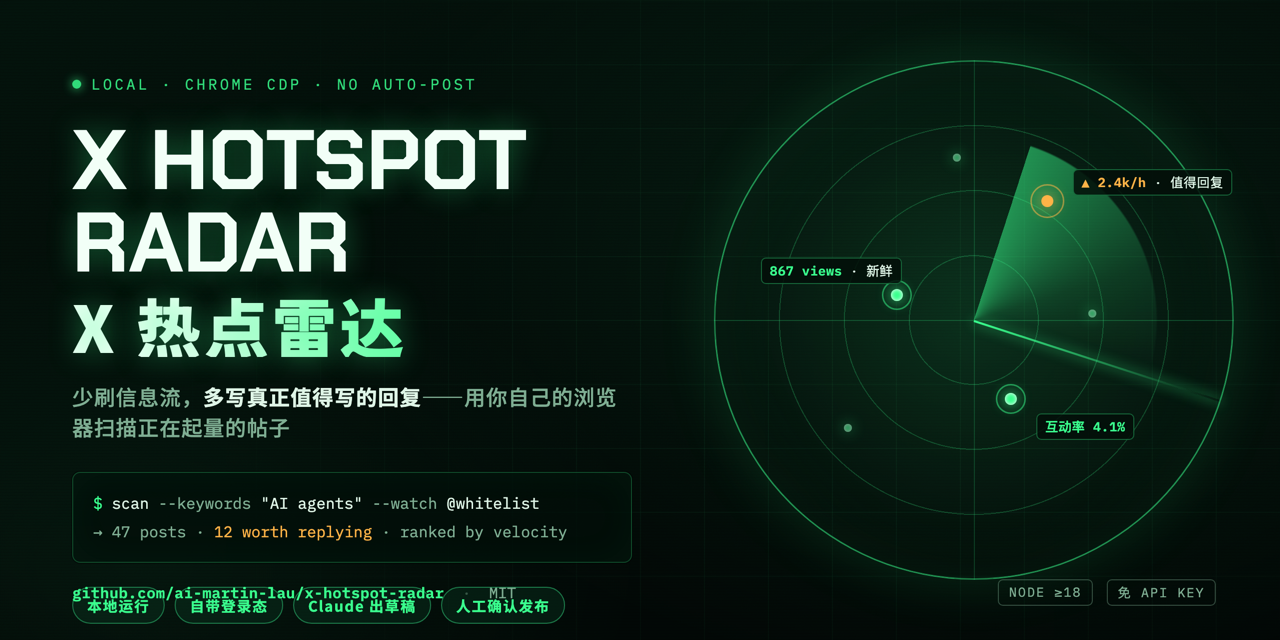
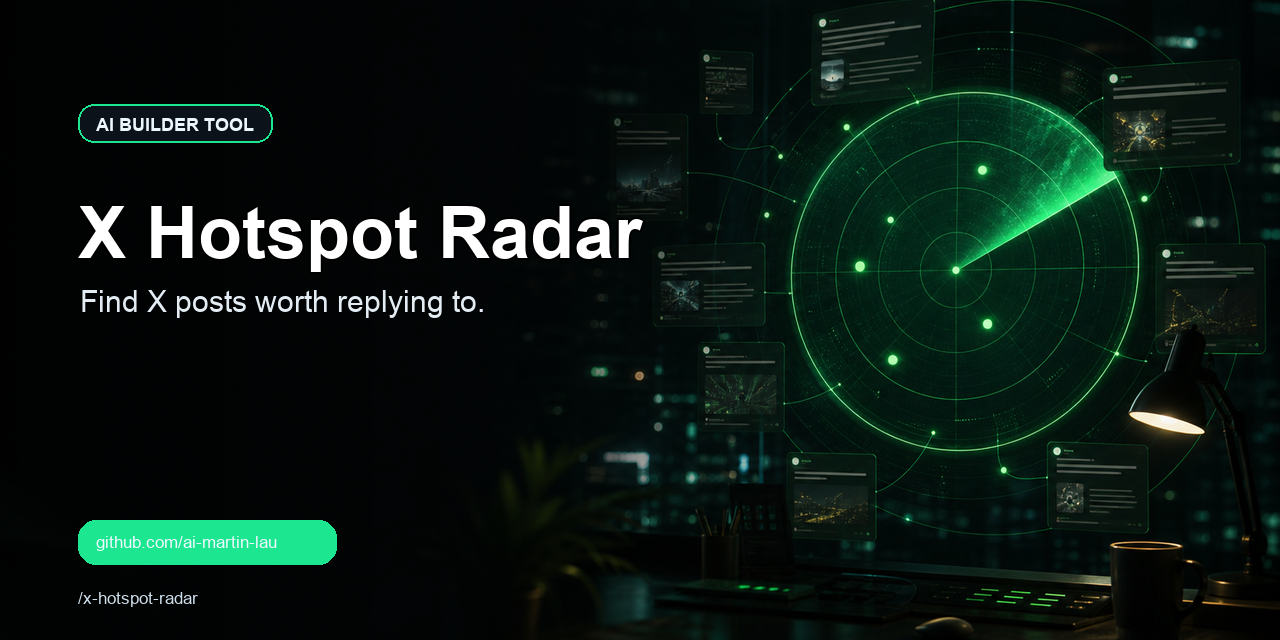
Make public README and cover English-first

diff --git a/README.md b/README.md
@@ -1,34 +1,36 @@
 <p align="center">
-  <a href="README.md">简体中文</a> · <a href="README_EN.md">English</a> · <a href="README_JA.md">日本語</a> · <a href="README_KO.md">한국어</a> · <a href="README_ES.md">Español</a>
+  <a href="README.md">English</a> · <a href="README_ZH.md">简体中文</a> · <a href="README_JA.md">日本語</a> · <a href="README_KO.md">한국어</a> · <a href="README_ES.md">Español</a>
 </p>
 
-<p align="center"><img src="docs/cover.png" alt="X Hotspot Radar" width="100%"></p>
+<p align="center">
+  <img src="docs/cover.png" alt="X Hotspot Radar" width="100%">
+</p>
 
 # X Hotspot Radar
 
-一个本地运行的 X/Twitter 热点雷达，用来发现更值得回复的帖子。
+A locally-run hotspot radar for X/Twitter that helps you find posts more worth replying to.
 
-它不自动发帖、不自动评论，也不绕过 X 的限制。它做的事情很简单：用你自己的 Chrome 登录态打开 X 搜索页，自动滚动、提取公开帖子数据，然后按浏览量、流速、互动率和领域相关度排序，帮你少刷信息流，多写几条真正值得写的回复。
+It does not auto-post, does not auto-comment, and does not bypass X's limits. What it does is simple: using your own logged-in Chrome session, it opens X search pages, scrolls automatically, extracts public post data, and then ranks posts by view count, velocity, engagement rate, and topical relevance—helping you scroll the feed less and write more replies that are actually worth writing.
 
-## 功能
+## Features
 
-- 扫描 X 搜索结果，找到正在起量的帖子
-- 支持自定义关键词组，一行一个关键词
-- 支持黑名单，按昵称或 `@handle` 过滤作者
-- 默认过滤成人/敏感内容
-- 按热度、流速、互动率、相关度给出回复优先级
-- 复制提示或生成回复前，会先打开原帖详情页补全文
-- 可选调用本地 Claude Code 生成中文回复草稿
-- 所有评论都需要人工确认后再发布
+- Scans X search results to find posts that are gaining traction
+- Supports custom keyword groups, one keyword per line
+- Supports a blocklist, filtering authors by nickname or `@handle`
+- Filters out adult/sensitive content by default
+- Assigns reply priority based on heat, velocity, engagement rate, and relevance
+- Opens the original post's detail page to fetch the full text before copying a prompt or generating a reply
+- Optionally calls local Claude Code to generate a reply draft
+- Every comment requires manual confirmation before publishing
 
-## 适合谁
+## Who It's For
 
-- 正在运营 X/Twitter 的 AI builder
-- 做 build in public、独立开发、AI 接单、跨境电商内容的人
-- 想在大 V 评论区写高质量回复，而不是随手刷屏的人
-- 已经有 Claude Code，希望复用本地额度生成回复草稿的人
+- AI builders actively running an X/Twitter account
+- People creating content around build in public, indie development, AI freelancing, and cross-border e-commerce
+- People who want to write high-quality replies in big accounts' comment sections, rather than mindlessly spamming the feed
+- People who already have Claude Code and want to reuse their local quota to generate reply drafts
 
-## 工作方式
+## How It Works
 
 ```mermaid
 flowchart LR
@@ -41,24 +43,24 @@ flowchart LR
   G --> H["Optional Claude Code Draft"]
 ```
 
-## 环境要求
+## Requirements
 
 - Node.js 22+
 - Google Chrome
-- 一个已登录 X 的 Chrome 会话
-- 可选：Claude Code CLI，用于生成回复草稿
+- A Chrome session already logged in to X
+- Optional: Claude Code CLI, for generating reply drafts
 
-## 快速开始
+## Quick Start
 
-1. 安装依赖
+1. Install dependencies
 
 ```bash
 npm install
 ```
 
-当前项目没有第三方 npm 依赖，运行 `npm install` 只是为了生成本地 npm 状态。
+This project currently has no third-party npm dependencies; running `npm install` is only to generate the local npm state.
 
-2. 启动带远程调试端口的 Chrome
+2. Launch Chrome with the remote debugging port
 
 macOS:
 
@@ -68,70 +70,70 @@ open -na "Google Chrome" --args \
   --user-data-dir="$HOME/.x-hotspot-radar-chrome"
 ```
 
-第一次打开时，Chrome 可能会询问是否允许远程调试。允许后，在这个 Chrome 窗口登录 X。
+The first time you open it, Chrome may ask whether to allow remote debugging. After allowing it, log in to X in this Chrome window.
 
-3. 启动雷达
+3. Start the radar
 
 ```bash
 npm start
 ```
 
-4. 打开本地页面
+4. Open the local page
 
 [http://127.0.0.1:8787](http://127.0.0.1:8787)
 
-## 使用方式
+## Usage
 
-1. 保留默认关键词组，或自己编辑关键词组
-2. 有临时热点时，在「临时关键词」里一行写一个关键词
-3. 需要过滤某些作者时，在「黑名单」里一行写一个昵称或 `@handle`
-4. 点击「找回复机会」
-5. 优先查看「必回」和「可回」
-6. 如需草稿，点击「生成回复」
-7. 人工判断后再去 X 发布
+1. Keep the default keyword groups, or edit the keyword groups yourself
+2. When there's a temporary hot topic, add one keyword per line in "临时关键词" (Temporary Keywords)
+3. When you need to filter certain authors, add one nickname or `@handle` per line in "黑名单" (Blocklist)
+4. Click "找回复机会" (Find Reply Opportunities)
+5. Prioritize reviewing "必回" (Must Reply) and "可回" (Worth Replying)
+6. If you want a draft, click "生成回复" (Generate Reply)
+7. Use your own judgment before publishing on X
 
-## Claude Code 回复草稿
+## Claude Code Reply Drafts
 
-项目默认调用本机的 `claude` 命令：
+By default, the project calls the local `claude` command:
 
 ```bash
 claude -p "写一条中文回复"
 ```
 
-如果你的 Claude Code 不在 PATH 里，可以通过环境变量指定：
+If your Claude Code is not in PATH, you can specify it via an environment variable:
 
 ```bash
 CLAUDE_BIN=/path/to/claude npm start
 ```
 
-如果没有 Claude Code，扫描和排序仍然可以正常使用，只是不能自动生成回复草稿。
+Without Claude Code, scanning and ranking still work normally; you just can't auto-generate reply drafts.
 
-## 环境变量
+## Environment Variables
 
-| 变量 | 默认值 | 说明 |
+| Variable | Default | Description |
 | --- | --- | --- |
-| `PORT` | `8787` | 本地服务端口 |
-| `CHROME_DEBUG_PORT` | `9222` | Chrome 远程调试端口 |
-| `CHROME_DEBUG_URL` | `http://127.0.0.1:9222` | Chrome DevTools 地址 |
-| `CDP_PROXY_URL` | 空 | 可选的 CDP 代理地址 |
-| `CLAUDE_BIN` | `claude` | Claude Code CLI 路径 |
+| `PORT` | `8787` | Local service port |
+| `CHROME_DEBUG_PORT` | `9222` | Chrome remote debugging port |
+| `CHROME_DEBUG_URL` | `http://127.0.0.1:9222` | Chrome DevTools address |
+| `CDP_PROXY_URL` | empty | Optional CDP proxy address |
+| `CLAUDE_BIN` | `claude` | Claude Code CLI path |
 
-## 注意事项
+## Notes
 
-- 这个项目只读取你自己 Chrome 里能看到的 X 页面，不使用 X 官方 API。
-- 不建议高频、大规模抓取；请尊重 X 的服务条款和平台规则。
-- 生成的回复只是草稿，不应无脑发布。
-- 本项目不会保存你的 X 密码、Cookie 或 Claude 凭据。
+- This project only reads X pages that you can see in your own Chrome; it does not use X's official API.
+- High-frequency, large-scale scraping is not recommended; please respect X's Terms of Service and platform rules.
+- Generated replies are only drafts and should not be published blindly.
+- This project does not store your X password, cookies, or Claude credentials.
 
-## 开发
+## Development
 
-语法检查：
+Syntax check:
 
 ```bash
 npm run check
 ```
 
-本地启动：
+Start locally:
 
 ```bash
 npm start
@@ -141,6 +143,6 @@ npm start
 
 MIT
 
-## Star 趋势
+## Star History
 
-[![Star 趋势图](https://api.star-history.com/svg?repos=ai-martin-lau/x-hotspot-radar&type=Date)](https://star-history.com/#ai-martin-lau/x-hotspot-radar&Date)
+[![Star History Chart](https://api.star-history.com/svg?repos=ai-martin-lau/x-hotspot-radar&type=Date)](https://star-history.com/#ai-martin-lau/x-hotspot-radar&Date)

diff --git a/README_ZH.md b/README_ZH.md
@@ -1,0 +1,148 @@
+<p align="center">
+  <a href="README.md">English</a> · <a href="README_ZH.md">简体中文</a> · <a href="README_JA.md">日本語</a> · <a href="README_KO.md">한국어</a> · <a href="README_ES.md">Español</a>
+</p>
+
+<p align="center">
+  <img src="docs/cover.png" alt="X Hotspot Radar" width="100%">
+</p>
+
+# X Hotspot Radar
+
+一个本地运行的 X/Twitter 热点雷达，用来发现更值得回复的帖子。
+
+它不自动发帖、不自动评论，也不绕过 X 的限制。它做的事情很简单：用你自己的 Chrome 登录态打开 X 搜索页，自动滚动、提取公开帖子数据，然后按浏览量、流速、互动率和领域相关度排序，帮你少刷信息流，多写几条真正值得写的回复。
+
+## 功能
+
+- 扫描 X 搜索结果，找到正在起量的帖子
+- 支持自定义关键词组，一行一个关键词
+- 支持黑名单，按昵称或 `@handle` 过滤作者
+- 默认过滤成人/敏感内容
+- 按热度、流速、互动率、相关度给出回复优先级
+- 复制提示或生成回复前，会先打开原帖详情页补全文
+- 可选调用本地 Claude Code 生成中文回复草稿
+- 所有评论都需要人工确认后再发布
+
+## 适合谁
+
+- 正在运营 X/Twitter 的 AI builder
+- 做 build in public、独立开发、AI 接单、跨境电商内容的人
+- 想在大 V 评论区写高质量回复，而不是随手刷屏的人
+- 已经有 Claude Code，希望复用本地额度生成回复草稿的人
+
+## 工作方式
+
+```mermaid
+flowchart LR
+  A["Dashboard UI"] --> B["Local Node Server"]
+  B --> C["Chrome DevTools Protocol"]
+  C --> D["X Search Pages"]
+  D --> E["Post Extraction"]
+  E --> F["Ranking and Filtering"]
+  F --> G["Reply Opportunities"]
+  G --> H["Optional Claude Code Draft"]
+```
+
+## 环境要求
+
+- Node.js 22+
+- Google Chrome
+- 一个已登录 X 的 Chrome 会话
+- 可选：Claude Code CLI，用于生成回复草稿
+
+## 快速开始
+
+1. 安装依赖
+
+```bash
+npm install
+```
+
+当前项目没有第三方 npm 依赖，运行 `npm install` 只是为了生成本地 npm 状态。
+
+2. 启动带远程调试端口的 Chrome
+
+macOS:
+
+```bash
+open -na "Google Chrome" --args \
+  --remote-debugging-port=9222 \
+  --user-data-dir="$HOME/.x-hotspot-radar-chrome"
+```
+
+第一次打开时，Chrome 可能会询问是否允许远程调试。允许后，在这个 Chrome 窗口登录 X。
+
+3. 启动雷达
+
+```bash
+npm start
+```
+
+4. 打开本地页面
+
+[http://127.0.0.1:8787](http://127.0.0.1:8787)
+
+## 使用方式
+
+1. 保留默认关键词组，或自己编辑关键词组
+2. 有临时热点时，在「临时关键词」里一行写一个关键词
+3. 需要过滤某些作者时，在「黑名单」里一行写一个昵称或 `@handle`
+4. 点击「找回复机会」
+5. 优先查看「必回」和「可回」
+6. 如需草稿，点击「生成回复」
+7. 人工判断后再去 X 发布
+
+## Claude Code 回复草稿
+
+项目默认调用本机的 `claude` 命令：
+
+```bash
+claude -p "写一条中文回复"
+```
+
+如果你的 Claude Code 不在 PATH 里，可以通过环境变量指定：
+
+```bash
+CLAUDE_BIN=/path/to/claude npm start
+```
+
+如果没有 Claude Code，扫描和排序仍然可以正常使用，只是不能自动生成回复草稿。
+
+## 环境变量
+
+| 变量 | 默认值 | 说明 |
+| --- | --- | --- |
+| `PORT` | `8787` | 本地服务端口 |
+| `CHROME_DEBUG_PORT` | `9222` | Chrome 远程调试端口 |
+| `CHROME_DEBUG_URL` | `http://127.0.0.1:9222` | Chrome DevTools 地址 |
+| `CDP_PROXY_URL` | 空 | 可选的 CDP 代理地址 |
+| `CLAUDE_BIN` | `claude` | Claude Code CLI 路径 |
+
+## 注意事项
+
+- 这个项目只读取你自己 Chrome 里能看到的 X 页面，不使用 X 官方 API。
+- 不建议高频、大规模抓取；请尊重 X 的服务条款和平台规则。
+- 生成的回复只是草稿，不应无脑发布。
+- 本项目不会保存你的 X 密码、Cookie 或 Claude 凭据。
+
+## 开发
+
+语法检查：
+
+```bash
+npm run check
+```
+
+本地启动：
+
+```bash
+npm start
+```
+
+## License
+
+MIT
+
+## Star 趋势
+
+[![Star 趋势图](https://api.star-history.com/svg?repos=ai-martin-lau/x-hotspot-radar&type=Date)](https://star-history.com/#ai-martin-lau/x-hotspot-radar&Date)

diff --git a/README_EN.md b/README_EN.md
@@ -1,5 +1,9 @@
 <p align="center">
-  <a href="README.md">简体中文</a> · <a href="README_EN.md">English</a> · <a href="README_JA.md">日本語</a> · <a href="README_KO.md">한국어</a> · <a href="README_ES.md">Español</a>
+  <a href="README.md">English</a> · <a href="README_ZH.md">简体中文</a> · <a href="README_JA.md">日本語</a> · <a href="README_KO.md">한국어</a> · <a href="README_ES.md">Español</a>
+</p>
+
+<p align="center">
+  <img src="docs/cover.png" alt="X Hotspot Radar" width="100%">
 </p>
 
 # X Hotspot Radar
@@ -16,7 +20,7 @@ It does not auto-post, does not auto-comment, and does not bypass X's limits. Wh
 - Filters out adult/sensitive content by default
 - Assigns reply priority based on heat, velocity, engagement rate, and relevance
 - Opens the original post's detail page to fetch the full text before copying a prompt or generating a reply
-- Optionally calls local Claude Code to generate a Chinese reply draft
+- Optionally calls local Claude Code to generate a reply draft
 - Every comment requires manual confirmation before publishing
 
 ## Who It's For

diff --git a/README_ES.md b/README_ES.md
@@ -1,5 +1,5 @@
 <p align="center">
-  <a href="README.md">简体中文</a> · <a href="README_EN.md">English</a> · <a href="README_JA.md">日本語</a> · <a href="README_KO.md">한국어</a> · <a href="README_ES.md">Español</a>
+  <a href="README.md">English</a> · <a href="README_ZH.md">简体中文</a> · <a href="README_JA.md">日本語</a> · <a href="README_KO.md">한국어</a> · <a href="README_ES.md">Español</a>
 </p>
 
 # X Hotspot Radar

diff --git a/README_JA.md b/README_JA.md
@@ -1,5 +1,5 @@
 <p align="center">
-  <a href="README.md">简体中文</a> · <a href="README_EN.md">English</a> · <a href="README_JA.md">日本語</a> · <a href="README_KO.md">한국어</a> · <a href="README_ES.md">Español</a>
+  <a href="README.md">English</a> · <a href="README_ZH.md">简体中文</a> · <a href="README_JA.md">日本語</a> · <a href="README_KO.md">한국어</a> · <a href="README_ES.md">Español</a>
 </p>
 
 # X Hotspot Radar

diff --git a/README_KO.md b/README_KO.md
@@ -1,5 +1,5 @@
 <p align="center">
-  <a href="README.md">简体中文</a> · <a href="README_EN.md">English</a> · <a href="README_JA.md">日本語</a> · <a href="README_KO.md">한국어</a> · <a href="README_ES.md">Español</a>
+  <a href="README.md">English</a> · <a href="README_ZH.md">简体中文</a> · <a href="README_JA.md">日本語</a> · <a href="README_KO.md">한국어</a> · <a href="README_ES.md">Español</a>
 </p>
 
 # X Hotspot Radar
